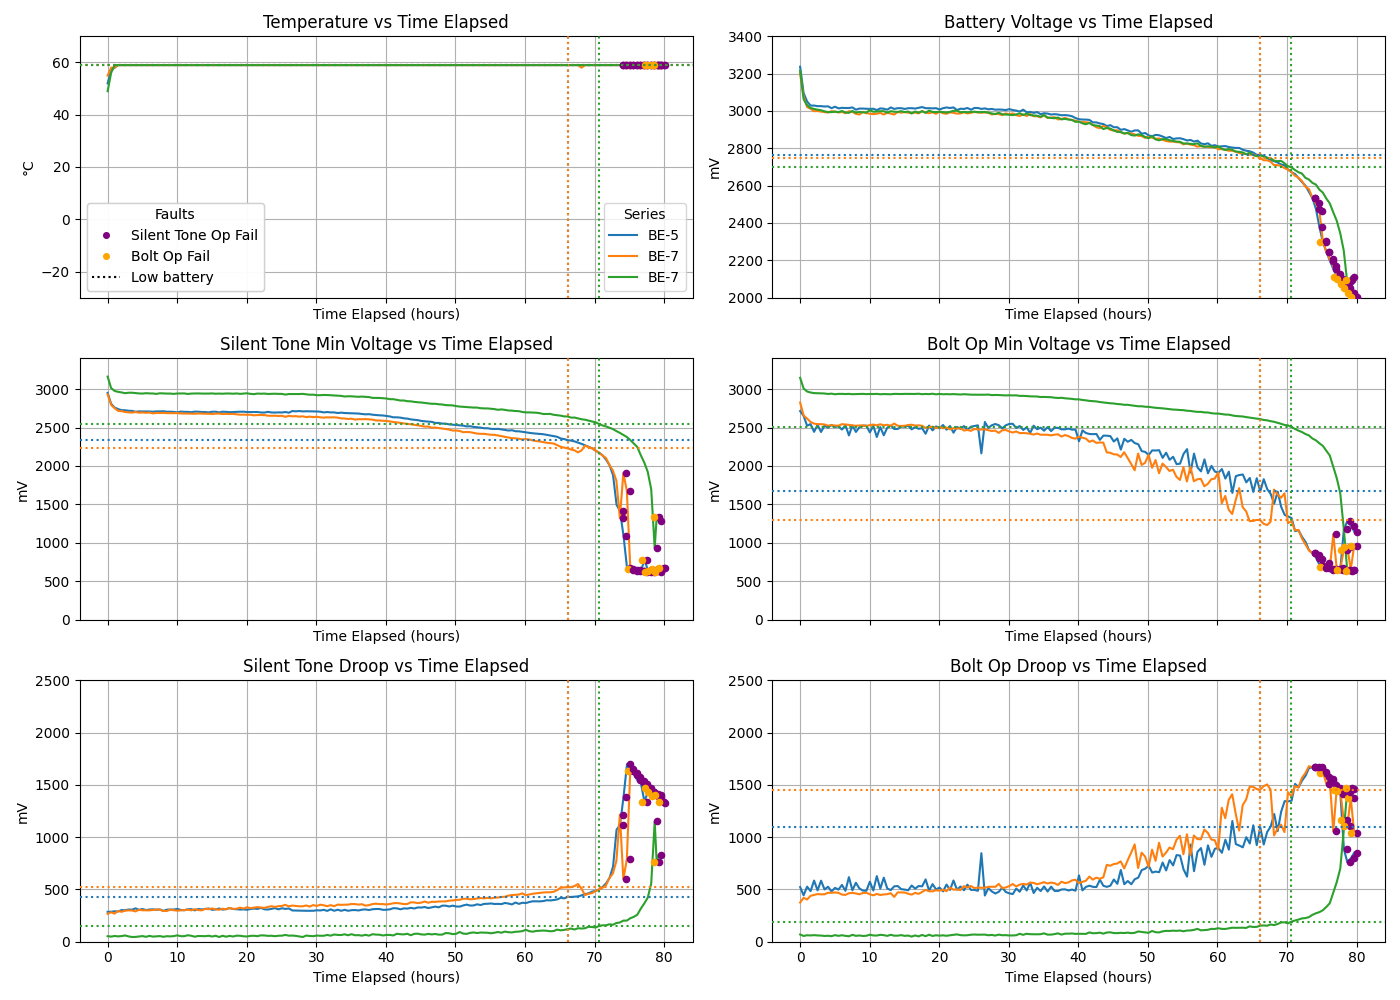
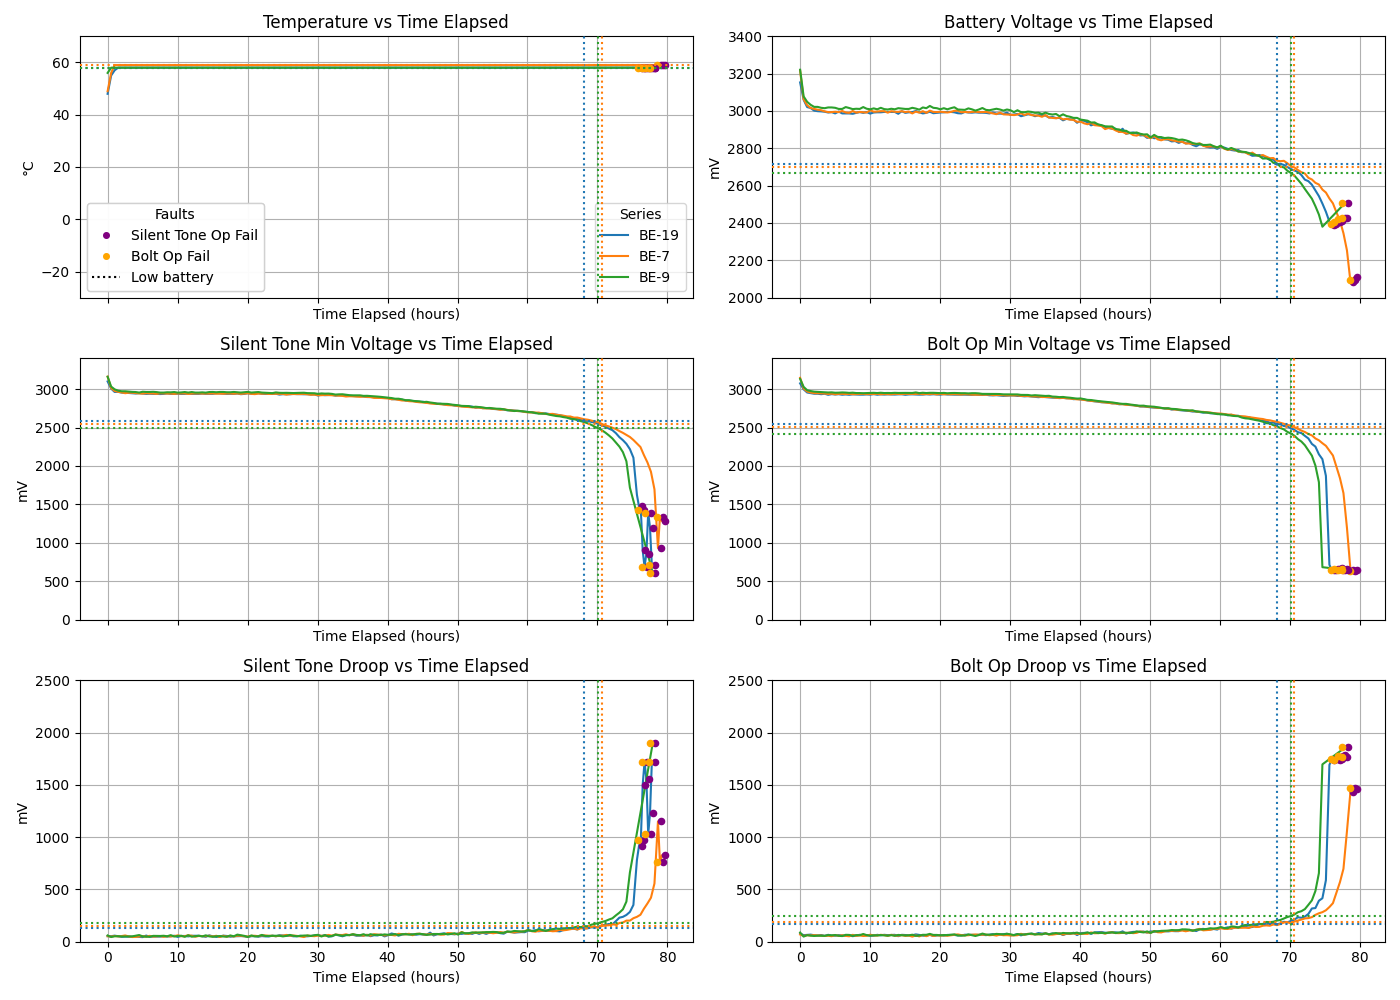
tenergy 60c

diff --git a/plot_folder.py b/plot_folder.py
@@ -6,7 +6,7 @@ import numpy as np  # NEW
 from matplotlib.lines import Line2D
 
 # CONFIGURATION
-CSV_DIR = "csvs/manufacturers-cross-temp/temp-60c/enegitech"
+CSV_DIR = "csvs/manufacturers-cross-temp/temp-60c/tenergy"
 CSV_TAG = os.path.basename(os.path.normpath(CSV_DIR))
 PLOT_OUTPUT = f"plots/compare_all_{CSV_DIR.replace("/", "-")}.png"
 COMPUTE_LOW_BATT_BY_ALL_FAULTS=True
